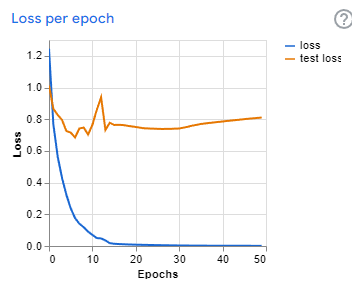
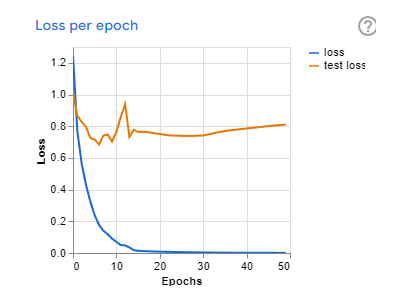
Added losses

Changed region(s): [[0.0312, 0.0311, 1.0, 0.9654], [0.5312, 0.7163, 0.7812, 0.7474], [0.7188, 0.4983, 0.7812, 0.5294]]

diff --git a/Fighterjets-Streamlit.py b/Fighterjets-Streamlit.py
@@ -40,4 +40,16 @@ if uploaded_file is not None:
     st.write("Google teachable machine model:")
     st.image('./images/CM_GTM.png')
 
+    #Compare losses
+    st.write("")
+    st.subheader("Losses: ")
+    st.write("")
+    
+
+    st.write("Our loss per epoch:")
+    st.image('./images/Loss_OurModel.png')
+
+    st.write("Google teachable machine losses per epoch:")
+    st.image('./images/Loss_GTM.png')
+
 
